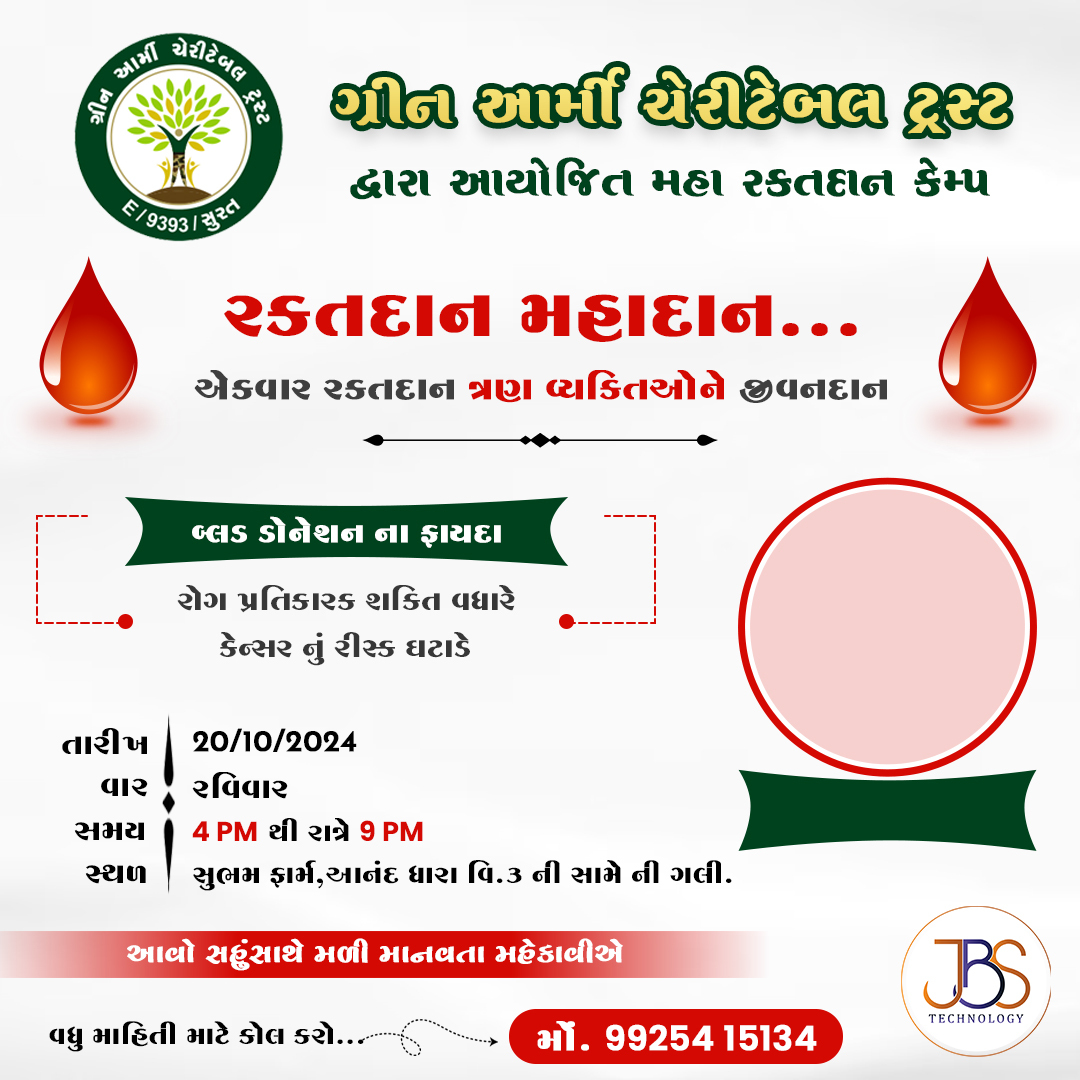
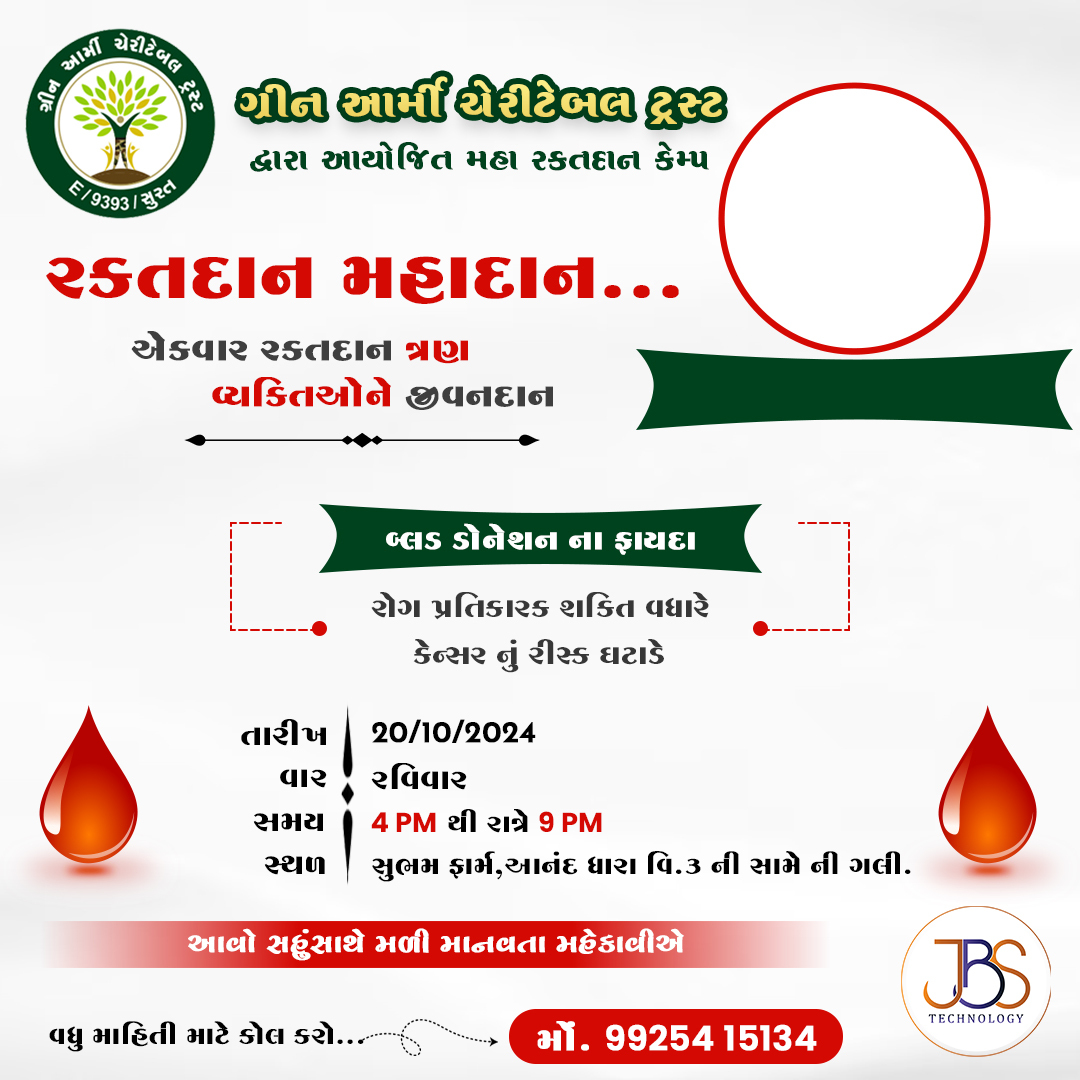
first commit

diff --git a/src/Form.js b/src/Form.js
@@ -355,29 +355,34 @@ const MyForm = () => {
             <img src={img} alt="image-preview" height={'100%'} width={'100%'} style={{objectFit:"contain"}} />
 
             {imagePreview && (
-              <Typography component={"img"} src={imagePreview} sx={{ position: 'absolute', top: {lg:'45%',md:'44.7%',sm:"45.3%",xs:"45%"}, right: {lg:'4.7%',md:"4.8%",sm:"5.2%",xs:"5%"}, height: {lg:'26%',md:"26%",sm:"25%",xs:"25%"}, width: {lg:'26%',md:"26%",sm:"25%",xs:"25%"}, borderRadius: '50%' }} />
+              <Typography component={"img"} src={imagePreview} sx={{ position: 'absolute', top: {sm:"8.3%",xs:"8%"}, right: {xs:"8.8%"}, height: "24%", width: '24%', borderRadius: '50%' }} />
             )}
 
           </Box>
-          <Box >
-
-        <input
-          value={name}
-          style={{
+          <Box sx={{
+            width: '35%',
             position: 'absolute',
-            bottom: '24%',
-            right: "8.5%",
-            width: '18%',
-            fontSize:"70%",
-            height:"18px",
-            border: "none",
-            backgroundColor: "transparent",
-            outline: "none",
-            color: "white",
-            textAlign:"center"
-          }}
-        />
+            top: { sm: '34.6%', xs: "31%" },
+            right: "3.6%",
+            '& input': {
+              width: '100%',
+              height: "18px",
+              border: "none",
+              backgroundColor: "transparent",
+              outline: "none",
+              color: "white",
+              textAlign: "center",
+              fontSize: {
+                xs: '10px',  // Small screens
+                sm: '12px',  // Medium screens
+                md: '14px',  // Larger screens
+                lg: '16px'   // Very large screens
+              }
+            }
+          }}>
+            <input value={name} />
           </Box>
+
         </Box>
       </Grid>
       <Grid item xs={12} lg={5} >
@@ -480,6 +485,7 @@ const MyForm = () => {
           <Button variant="contained" sx={{ mt: 3 }} onClick={handleDownloadGradient} disabled={(!selectedFile || !name || !contact || loading)}>
              Download
           </Button>
+
         </Container>
       </Grid>
     </Grid>
